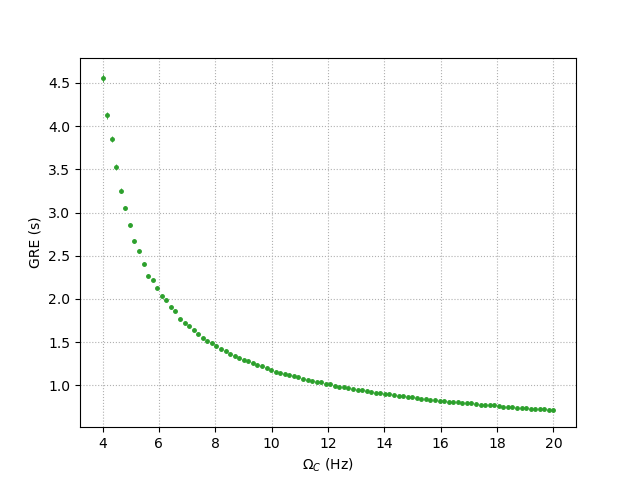
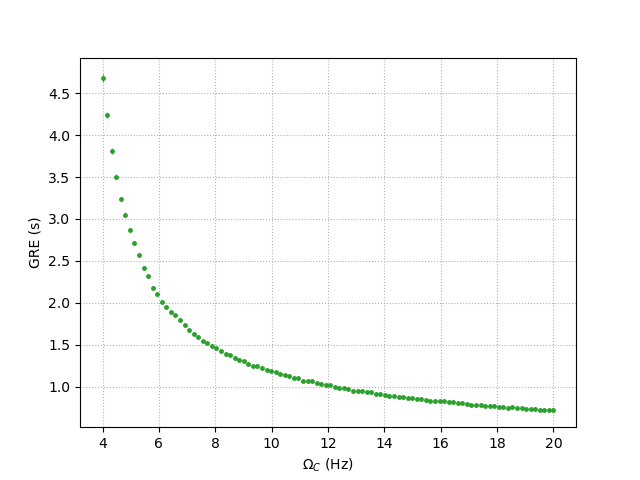
single astro dynamics

diff --git a/AstrocyteNeuron_Interactions/Astrocyte/G_Chi_brian.py b/AstrocyteNeuron_Interactions/Astrocyte/G_Chi_brian.py
@@ -183,16 +183,17 @@ dx_A/dt = Omega_A * (1 - x_A) : 1
 dG_A/dt = -Omega_e*G_A        : mmolar
 
 # Neurotransmitter concentration in the extracellular space:
-Y_S = Y_S_function(t)            : mmolar
-O_beta                        : mmolar/second
-Omega_C                       : 1/second
+Y_S = Y_S_function(t)  : mmolar
+O_beta                 : mmolar/second
+Omega_C                : 1/second
 """
-Y_S_function = TimedArray([50]*uM, dt=10*second)
+y_s_values = [10]*uM
+Y_S_function = TimedArray(y_s_values, dt=10*second)
 
 astrocyte_s = NeuronGroup(1, astro_eqs_s, 
 							threshold='C>C_Theta', refractory='C>C_Theta', reset=astro_release,
 							method='rk4', dt=1e-2*second)
-astrocyte_s.O_beta = 0.5*umolar/second
+astrocyte_s.O_beta = 0.005*umolar/second
 astrocyte_s.Omega_C = 6/second
 astrocyte_s.C ="0.005*umolar + rand()*(0.015-0.005)*umolar"
 astrocyte_s.h = "0.85 + rand()*(0.95-0.85)"
@@ -209,7 +210,7 @@ net_s.run(60*second, report='text')
 ## Plots #####################################################################################
 if omega_c:
 	fig1, ax1 = plt.subplots(nrows=1, ncols=1, 
-							num=f'GRE_Omega_C')
+							num=f'GRE_Omega_C, Y_S={y_s_values/umolar} um')
 						
 	ax1.errorbar(omega_c_range, gre_timing[:,0], gre_timing[:,1],
 				fmt='o', markersize=2.5, lw=0.6, color='C2')
@@ -233,7 +234,7 @@ if o_beta:
 	plt.savefig('G_ChI_images'+'/GRE_O_beta.png')
 
 fig2, ax2 = plt.subplots(nrows=4, ncols=1, sharex=True, figsize=(13, 9), 
-                        num=f'astrocyte dynamics')
+                        num=f'astrocyte dynamics, Y_S={y_s_values/umolar} um')
 
 ax2[0].plot(astro_mon_s.t[:], astro_mon_s.Y_S[0,:]/umolar, color='C3')
 ax2[0].set_ylabel(r'$Y_S$ ($\mu$M)')
